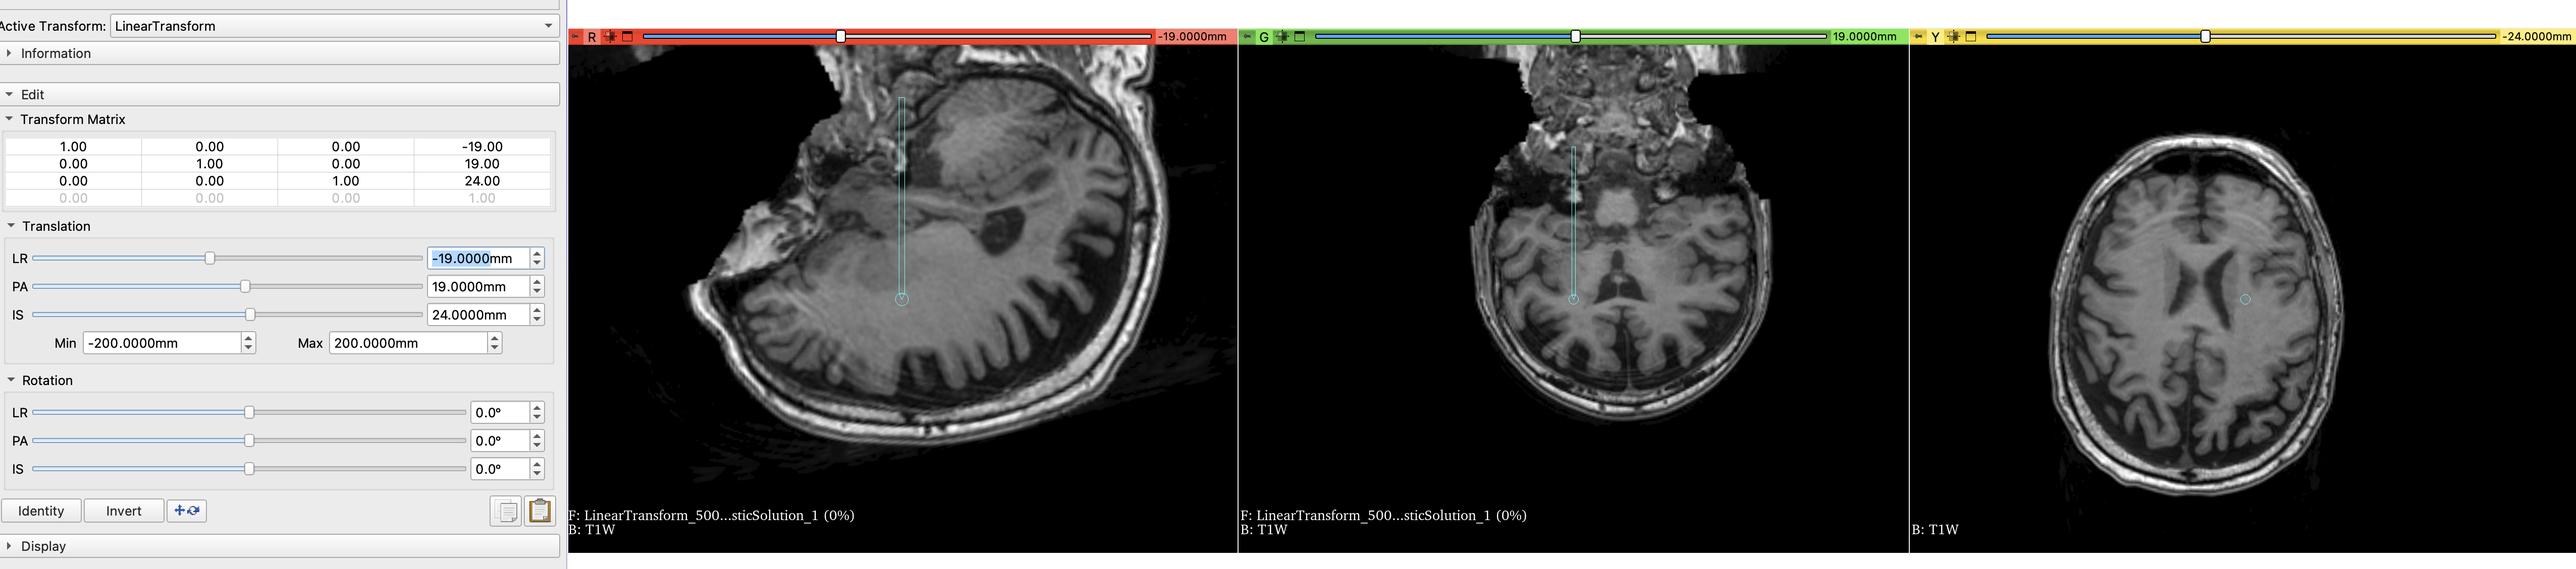
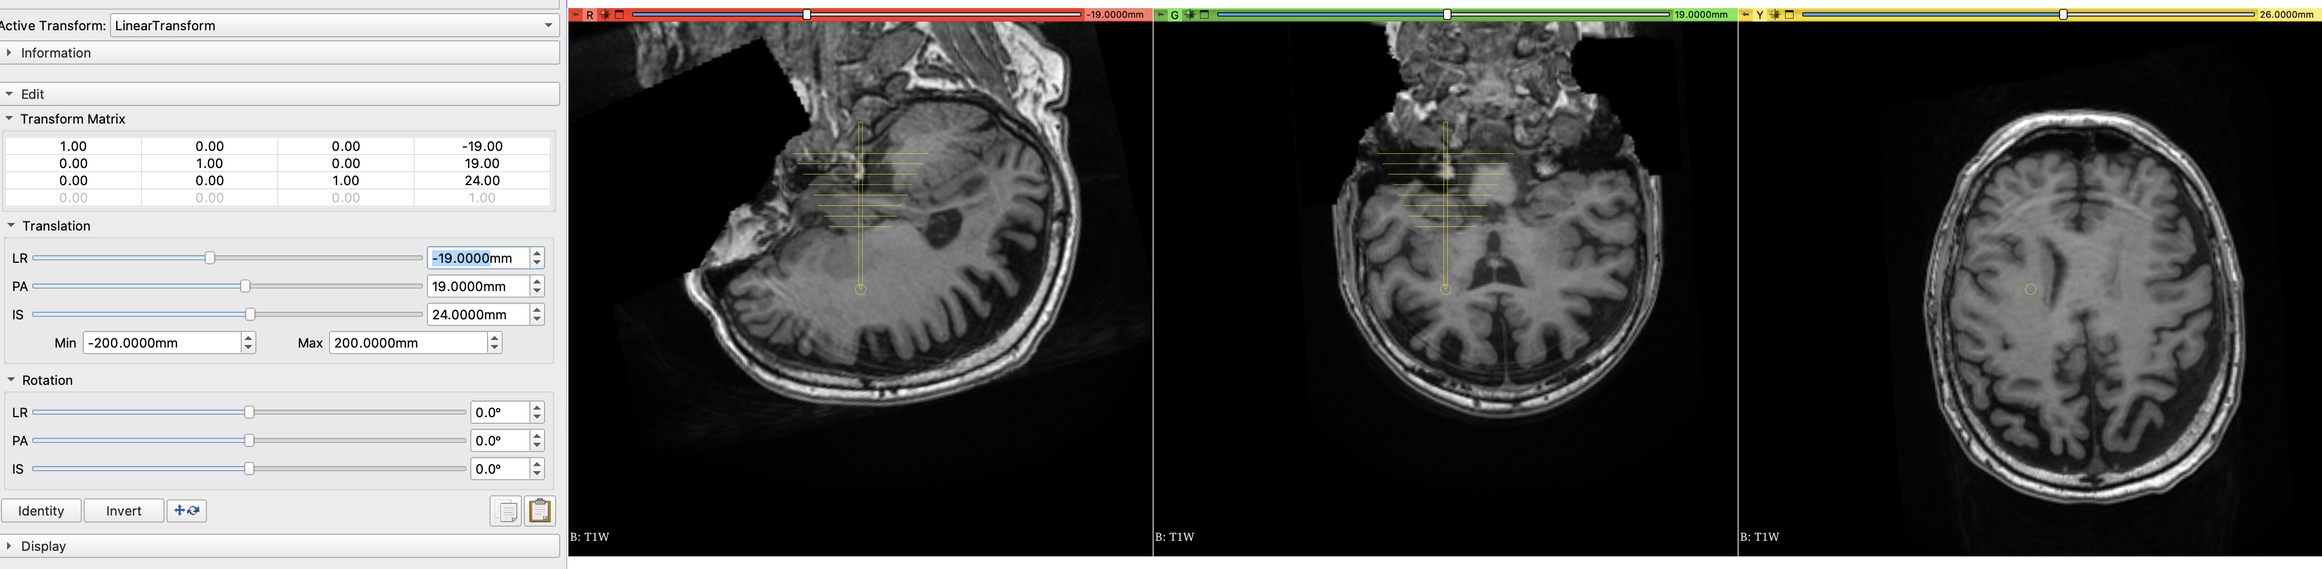
updating using custom trajectory

diff --git a/docs/docs/tutorial/pipeline.md b/docs/docs/tutorial/pipeline.md
@@ -32,7 +32,7 @@ Once imaging data is ready, the simulation for transcranial ultrasound is done i
 The goal of the planning step is to produce a **trajectory** that provides the location where ultrasound is intended to be focused and the orientation of the transducer in T1W coordinate space. In practice, the trajectory is just an affine matrix applied to a "virtual" needle that describes the **location** and **orientation** where focused ultrasound is desired to be concentrated. The tip of the trajectory needs to be at the intended target. The position of the transducer will be relative to the tip location. The details using 3DSlicer can illustrate this.
 
 #### Acoustic path STL helpers
-BabelBrain includes a series of complementary STL files representing the "acoustic" path. Each STL file includes a group of circular meshes that represent the acoustic cone at different depths. As noted in the instructions below, these meshes can be used to verify a correct alignment with the skin.
+BabelBrain includes a series of complementary STL files representing the "acoustic" path. Each STL file includes a group of circular meshes combined with a target needle that represent the acoustic cross sections of a field produced with a transducer with F#=1.0 at different depths. As noted in the instructions below, these meshes help to verify a correct alignment with the skin.
 
 ### Planning with 3DSlicer
 1. Install the **SlicerIGT** extension in 3DSlicer (restart 3DSlicer if requested)
@@ -40,17 +40,16 @@ BabelBrain includes a series of complementary STL files representing the "acoust
 <img src="Planning-1.png">
 2. In the IGT extension menu, select "Create Models"
 <img src="Planning-2.png" height=200px>
-2. Create a needle with a length of 100 mm. 
+2. Load one of the STL helpers as a `model` with `RAS` coordinate convention. The model will appear by default centred in the T1W space and pointing in the inferior$\rightarrow$superior direction
+<img src="Planning-4b.png" height=200px>
+Alternatively, you can create a needle with a length of 100 mm. 
 <img src="Planning-3.png" height=100px>
-Needle will appear by default centred in the T1W space and pointing in the inferior$\rightarrow$superior direction
-2. Recommended: Load one of the p. 
-
 <img src="Planning-4.png" height=200px>
-1. Select the needle in the data panel and edit the properties to make it appear in the "Slice Display"
+1. Select the mdoel in the data panel and edit the properties to make it appear in the "Slice Display"
 <img src="Planning-5.png" height=200px>
 1. Create a new transform and give it a name related to the target (e.g. LGPI, RSTN, LVIM, RM1, etc.). This is important as BabelBrain will use the name of the transform as a prefix for its output files.
 <img src="Planning-6.png" height=100px>
-Apply the transform to the needle model and be sure the transformation is set to "local" (little button next to the "invert" button)
+Apply the transform to the needle model and be sure the transformation is set to `local` (little button next to the "invert" button)
 <img src="Planning-7.png" height=300px>
 2. Select "Volume Reslice Driver" in the IGT module menu
 <img src="Planning-8.png" height=400px>
@@ -58,13 +57,13 @@ Apply the transform to the needle model and be sure the transformation is set to
 <img src="Planning-9.png" height=70px>
 3. Select one view to be "Inplane" and the other to be "Inplane 90"
 <img src="Planning-10.png" height=100px>
-3. In the Data panel, select the linear transform and edit properties, you should be able to see the slice views aligned along the needle 
-<img src="Planning-11.png" height=400px>
-3. Adjust the location of the tip of the needle using the **translation** (LR, PA, IS) controls to match the tip of the needle to your area of interest.
+3. In the Data panel, select the linear transform and edit properties, you should be able to see the slice views aligned along the model 
+<img src="Planning-11b.png" height=400px>
+3. Adjust the location of the tip of the needle using the **translation** (LR, PA, IS) controls to match the tip of the model to your area of interest.
 <img src="Planning-12.png" height=200px>
-3. Adjust the rotation of the needle (it will rotate around the tip) using the **rotation** (LR, PA, IS) controls until finding a trajectory that has a clear path and mimics how the transducer will be placed. Tip: Adjust the trajectory to make it orthogonal to the skin surface in the inline and inline90 views; this recreates the condition of placing a transducer aligned relative to the skin.
+3. Adjust the rotation of the model (it will rotate around the tip) using the **rotation** (LR, PA, IS) controls until finding a trajectory that has a clear path and mimics how the transducer will be placed. Tip: Adjust the trajectory to make it orthogonal to the skin surface in the inline and inline90 views; this recreates the condition of placing a transducer aligned relative to the skin.
 <img src="Planning-13.png" height=400px>
-Note: If you navigate to other windows in 3DSlicer, the transition and rotation control may set back to 0s. But the transformation matrix will remain with the latest values applied. Any other adjustment will be added to the transformation matrix. 
+Note: If you navigate to other windows in 3DSlicer, the transition and rotation control may set back to 0s. But the transformation matrix will remain with the latest values applied. Any other adjustment will be added to the transformation matrix. Be sure that the `local` option is always selected.
 4. Save transformation in text format. Select "Save data" and select text format for the transform. Take note of the path. Suggestion: Select a directory in the same path where T1W or SimbNIBS output is located. 
 
 ### Planning with Brainsight
